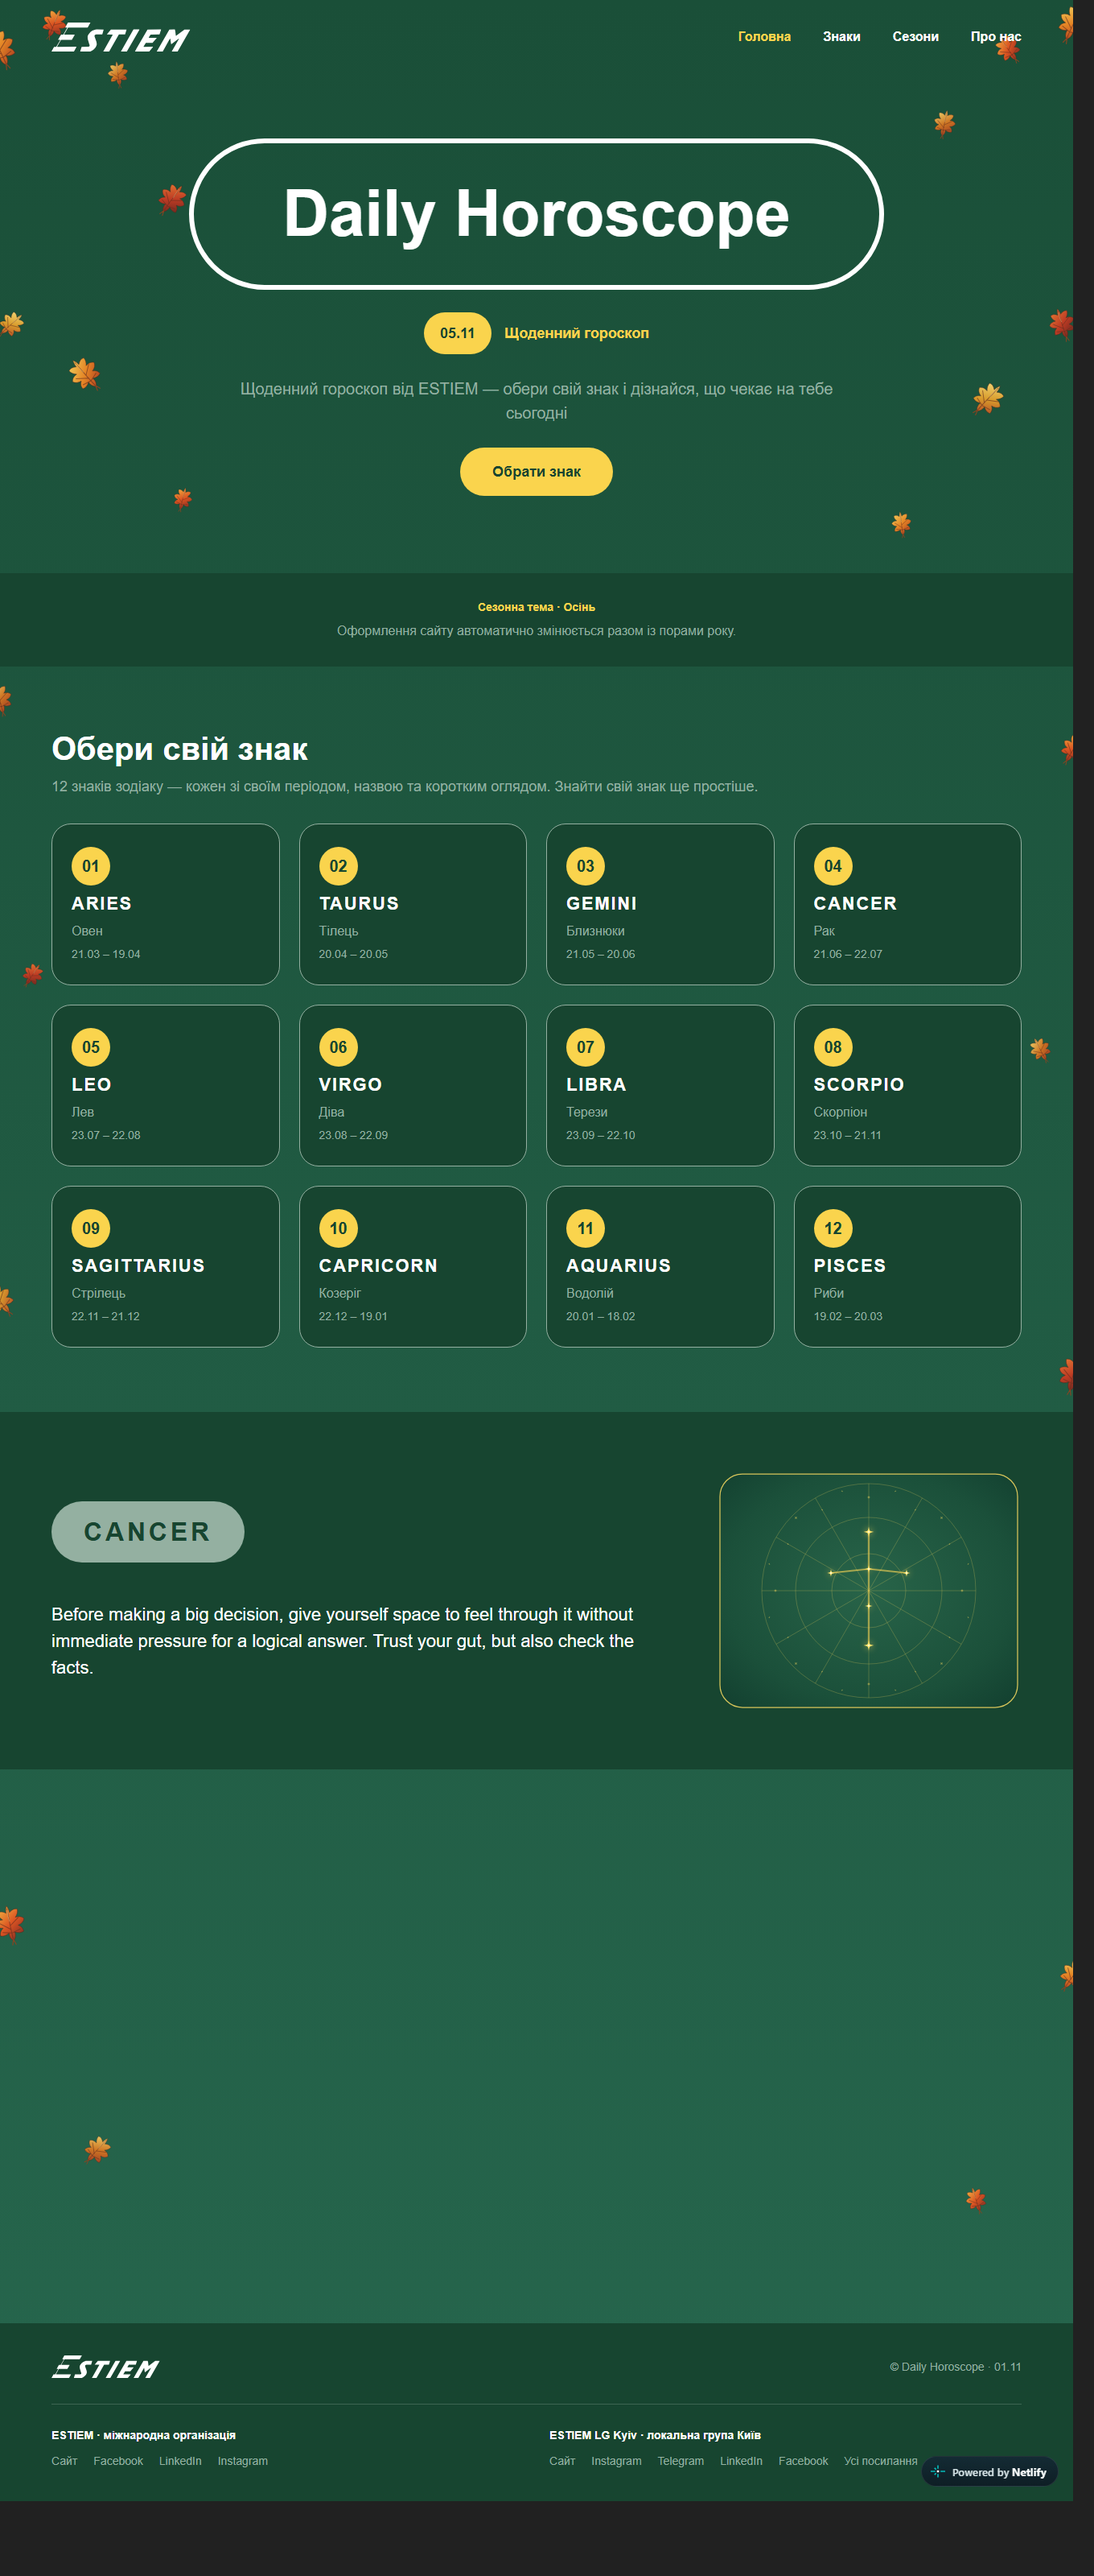
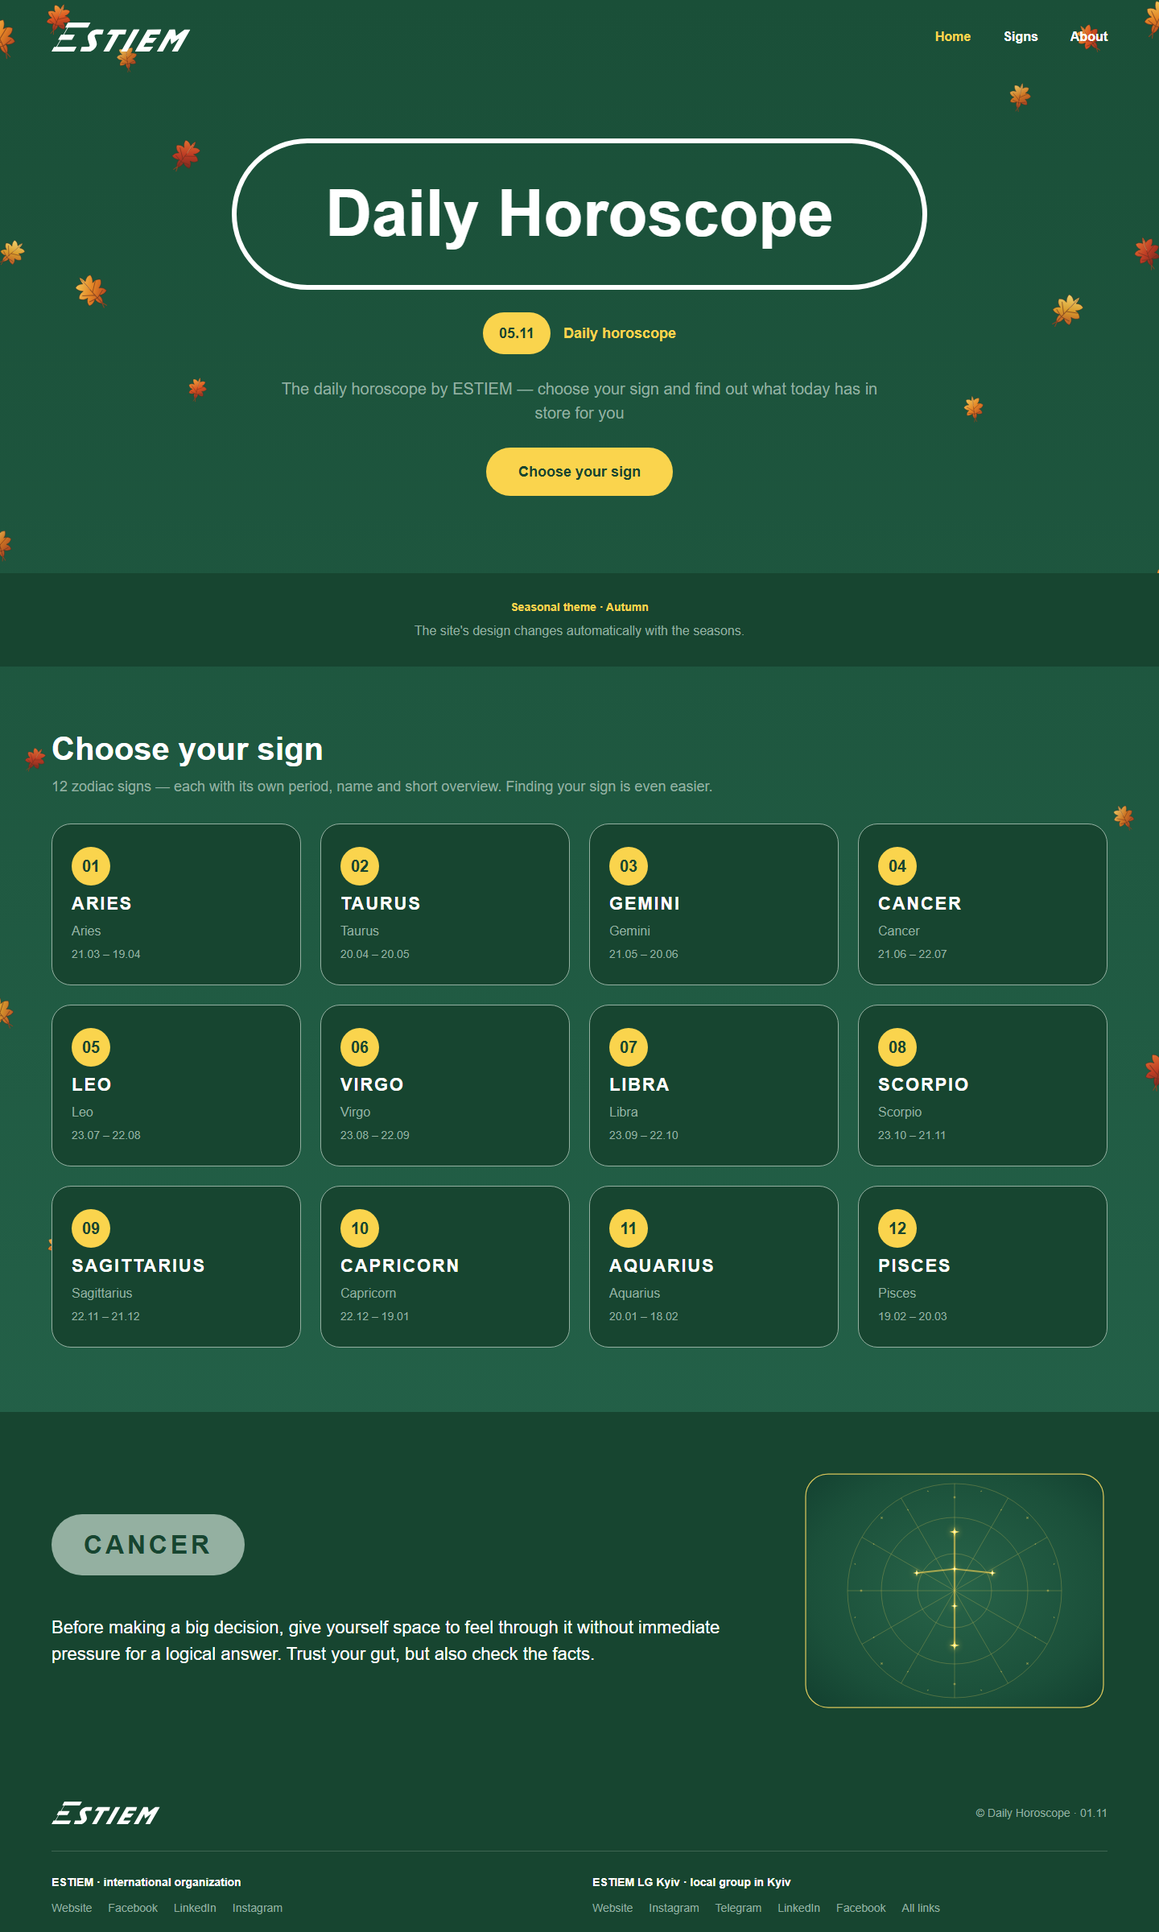
Polish EN UI: drop duplicated sign-name subtitles, update README

diff --git a/app/routes/signs.$slug.tsx b/app/routes/signs.$slug.tsx
@@ -123,7 +123,6 @@ export default function SignRoute() {
             ← {String(i + 1).padStart(2, "0")} / 12
           </span>
           <h1 className="text-5xl font-bold tracking-wide md:text-6xl">{s.en}</h1>
-          <span className="text-xl text-[#94B0A1]">{s.name}</span>
           <div className="flex flex-wrap gap-2">
             <span className="rounded-full bg-[#FAD44D] px-4 py-2 text-xs font-bold text-[#174530]">
               {s.period}

diff --git a/app/components/horoscope.tsx b/app/components/horoscope.tsx
@@ -356,7 +356,6 @@ export function SignCard({ s, i }: { s: (typeof SIGNS)[number]; i: number }) {
         {String(i + 1).padStart(2, "0")}
       </span>
       <span className="text-[22px] font-bold tracking-[0.08em]">{s.en}</span>
-      <span className="text-base text-[#94B0A1]">{s.name}</span>
       <span className="text-sm text-[#94B0A1]">{s.period}</span>
     </Link>
   );

diff --git a/README.md b/README.md
@@ -4,12 +4,12 @@
 
 ![Homepage](docs/screenshot-home.png)
 
-The official ESTIEM horoscope: a Ukrainian-language daily horoscope site —
-home, all 12 zodiac signs, per-sign readings, seasonal themes and an about
-page. Readings are synced every day from the free
+The official ESTIEM horoscope: an English-language daily horoscope site —
+home, all 12 zodiac signs, per-sign readings and an about page. Readings are
+synced every day from the free
 [CosmyDay](https://api.cosmyday.com) API into PostgreSQL and served through
-public JSON actions: visitors never sign in, and the UI is Ukrainian while the
-source texts are currently English.
+public JSON actions: visitors never sign in. The design changes its seasonal
+theme automatically — there is deliberately no season control in the UI.
 
 ## Highlights
 
